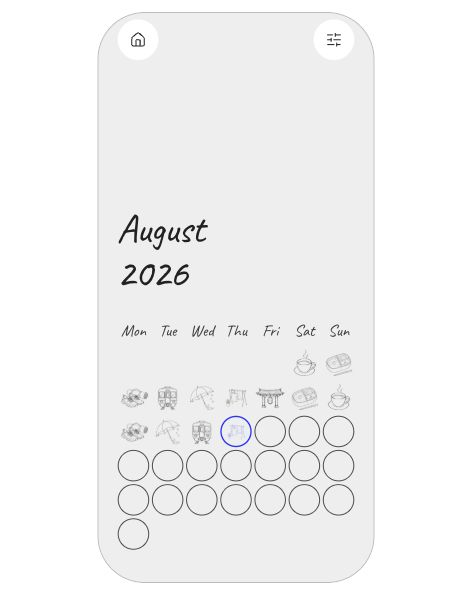
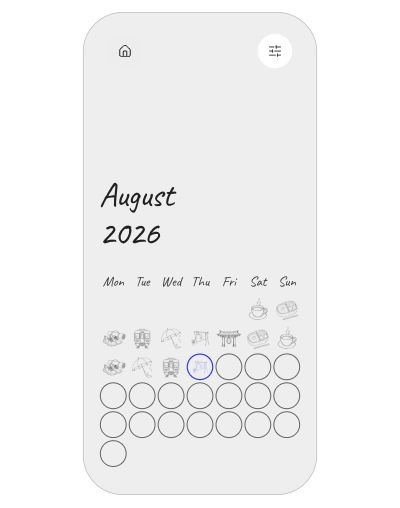
style: give diary navigation more breathing room [skip deploy]

diff --git a/components/data-visualization/doodle-calendar/doodle-calendar.tsx b/components/data-visualization/doodle-calendar/doodle-calendar.tsx
@@ -104,12 +104,14 @@ const HEAD_TOP_CLOSED = SCREEN_H - GRID_BOTTOM - GRID_H - HEAD_GAP - HEAD_BLOCK;
 
 // The card: a drawing over one date, one title and one sentence, ending well above the
 // bottom of the screen.
+const NAV_INSET = 32;
+const NAV_TOP = 28;
 const CARD_X = 28;
 const CARD_BOTTOM = 70;
 const ART_W = SCREEN_W - CARD_X * 2;
 /** Pencil illustrations sit above each card’s diary entry. */
 const ART_H = 192;
-const TEXT_H = 188;
+const TEXT_H = 168;
 const DAY_HEADER_H = 100;
 const CARD_W = ART_W;
 const CARD_H = DAY_HEADER_H + ART_H + TEXT_H;
@@ -519,7 +521,7 @@ export function DoodleCalendar({ today: todayProp = 13, loop = false, onSelect, 
                 transition: "background-color 600ms ease, color 600ms ease",
               }}
             >
-              <nav aria-label="Diary navigation" className="absolute inset-x-0" style={{ top: 8, height: 44, zIndex: 9 }}>
+              <nav aria-label="Diary navigation" className="absolute inset-x-0" style={{ top: NAV_TOP, height: 44, zIndex: 9 }}>
                 <motion.button
                   type="button"
                   aria-label="Home — month view"
@@ -528,7 +530,7 @@ export function DoodleCalendar({ today: todayProp = 13, loop = false, onSelect, 
                   whileHover={{ backgroundColor: "#E8E8E8" }}
                   whileTap={reduced ? undefined : { scale: 0.94 }}
                   className="dc-sketch absolute flex size-11 items-center justify-center rounded-full border-0 bg-white p-0"
-                  style={{ left: PAD, color: TEXT, cursor: "pointer" }}
+                  style={{ left: NAV_INSET, color: TEXT, cursor: "pointer" }}
                 >
                   <Home size={18} strokeWidth={1.5} aria-hidden="true" />
                 </motion.button>
@@ -545,7 +547,7 @@ export function DoodleCalendar({ today: todayProp = 13, loop = false, onSelect, 
                   whileHover={{ backgroundColor: filterTopic === "all" ? "#E8E8E8" : "#444444" }}
                   whileTap={reduced ? undefined : { scale: 0.94 }}
                   className="dc-sketch absolute flex size-11 items-center justify-center rounded-full border-0 p-0"
-                  style={{ right: PAD, backgroundColor: filterTopic === "all" ? CARD_PAPER : TEXT, color: filterTopic === "all" ? TEXT : CARD_PAPER, cursor: "pointer" }}
+                  style={{ right: NAV_INSET, backgroundColor: filterTopic === "all" ? CARD_PAPER : TEXT, color: filterTopic === "all" ? TEXT : CARD_PAPER, cursor: "pointer" }}
                 >
                   <SlidersHorizontal size={18} strokeWidth={1.5} aria-hidden="true" />
                 </motion.button>
@@ -859,7 +861,7 @@ export function DoodleCalendar({ today: todayProp = 13, loop = false, onSelect, 
                     animate={{ opacity: 1, y: 0 }}
                     exit={{ opacity: 0, y: reduced ? 0 : -4 }}
                     transition={{ duration: reduced ? 0.1 : 0.16 }}
-                    style={{ top: 64, left: PAD, right: PAD, padding: 14, border: "1px solid #D4D4D4", borderRadius: 22, backgroundColor: CARD_PAPER, zIndex: 12 }}
+                    style={{ top: NAV_TOP + 56, left: PAD, right: PAD, padding: 14, border: "1px solid #D4D4D4", borderRadius: 22, backgroundColor: CARD_PAPER, zIndex: 12 }}
                   >
                     <p className="m-0 mb-2" style={{ fontSize: 24, lineHeight: "28px" }}>Show moments</p>
                     <div className="grid grid-cols-2 gap-1.5">
